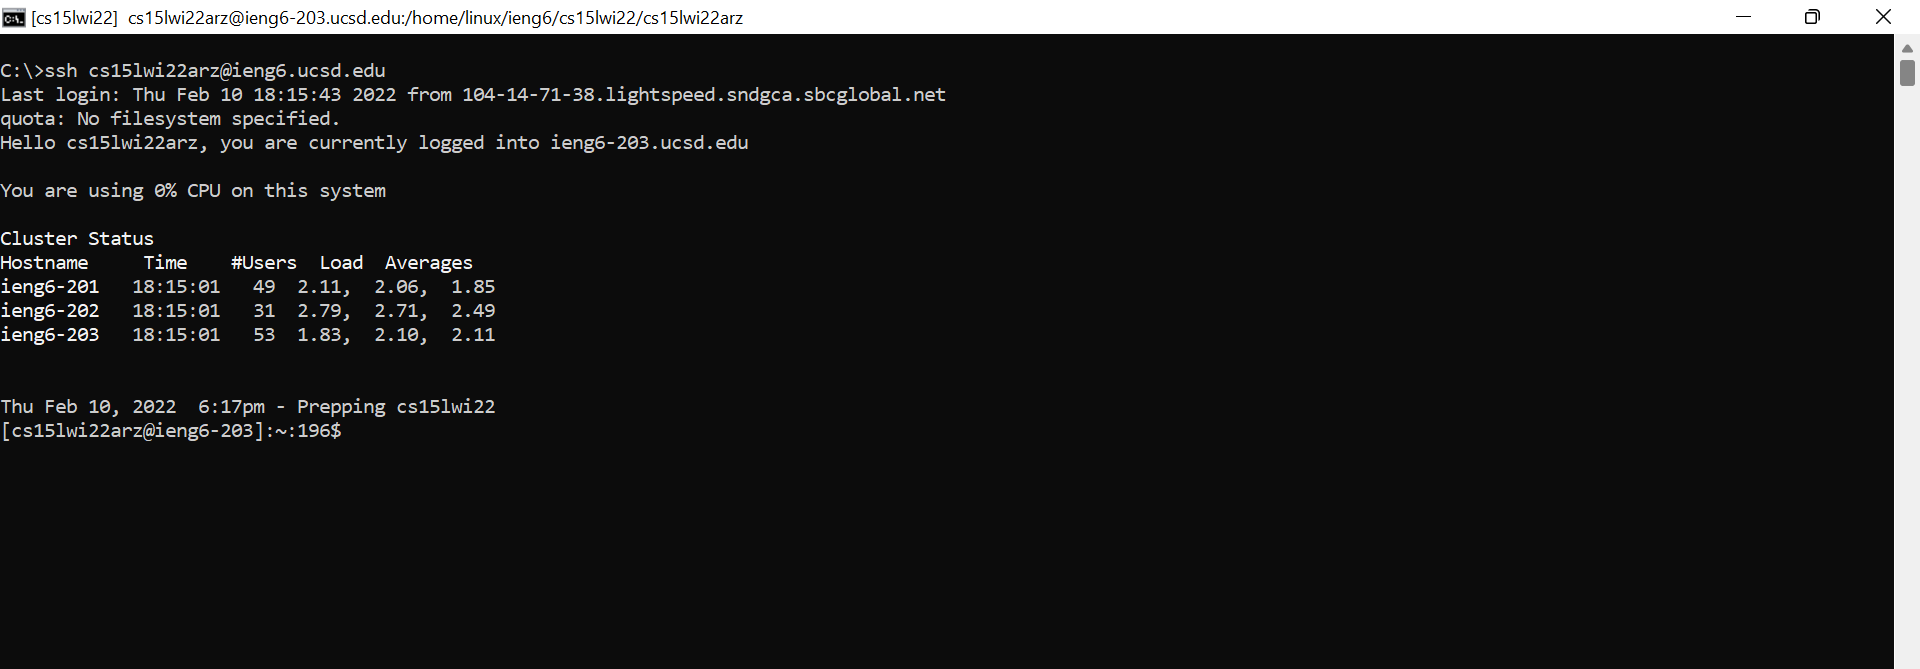
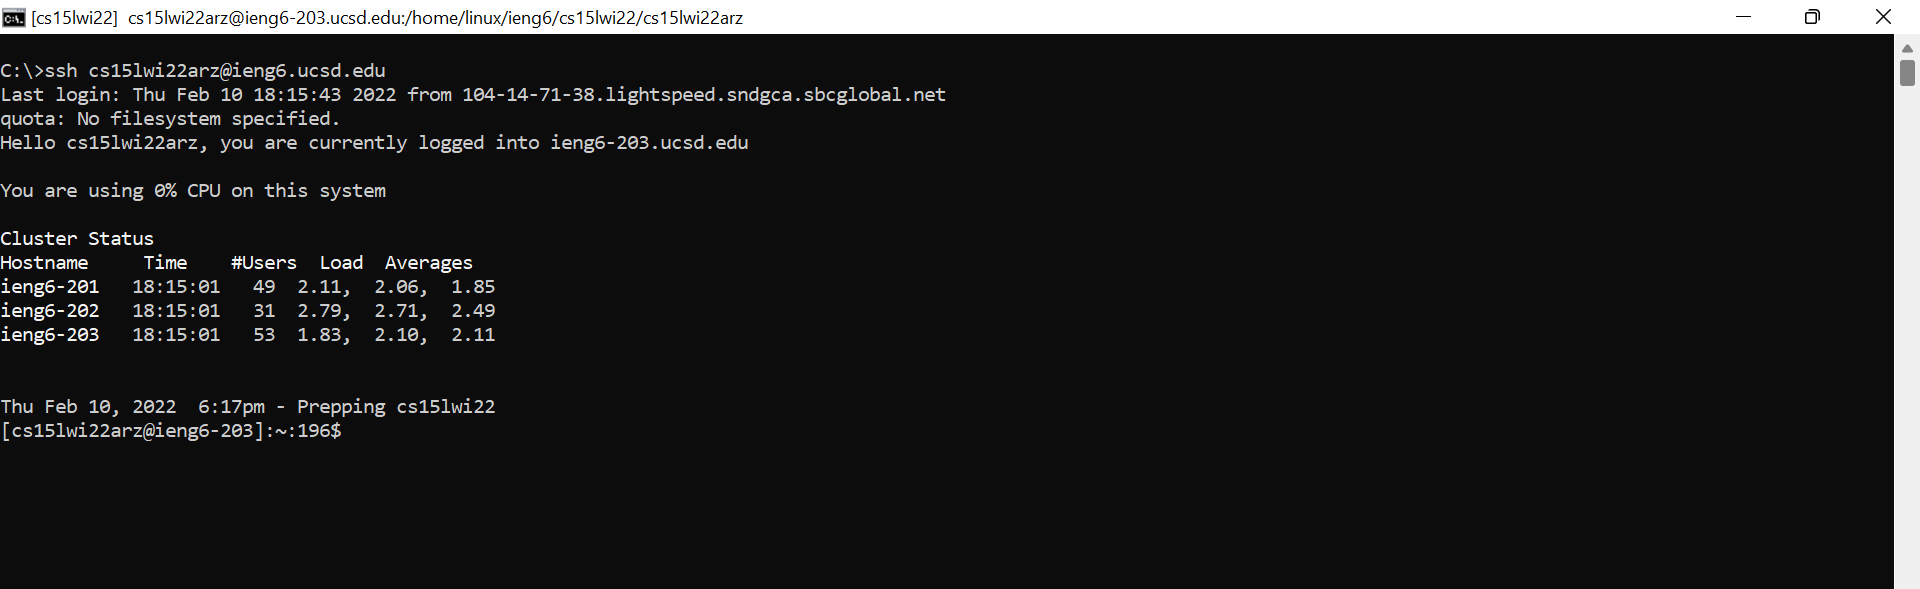
ok

Changed region(s): [[0.0, 0.0917, 0.5, 0.764], [0.0, 0.0, 1.0, 0.0917], [0.9688, 0.1222, 1.0, 0.1528]]

diff --git a/lab-report-3-week-6.md b/lab-report-3-week-6.md
@@ -4,8 +4,8 @@
 So far, everytime we have remotely connected to the UCSD server, we have been having to enter `ssh cs15lwi22zzz@ieng6.ucsd.edu`. Hopefully, you have been utilizing `Ctrl C` and `Ctrl V` to copy-paste the line into your command prompt (unless you really remembered the entire `ssh cs15lwi22zzz@ieng6.ucsd.edu` ... ). 
 
 No worries! We can make this process of logging into our `ieng6` account much faster and simpler. The following is a tutorial on streamlining our `ssh` configuration.
-<br/>
 
+<br/>
 
 > FOR WINDOWS USERS ONLY:
 - This should be done already, as it was required to get to the UCSD server in the first place, but if you have not done so yet, please install a program called OpenSSH!
@@ -13,7 +13,7 @@ No worries! We can make this process of logging into our `ieng6` account much fa
 
 <br/>
 
-### **Navigating to .ssh/configStep 1:**
+### **Navigating to .ssh/config**
 
 The folder `.ssh` should be in the home directory of your computer. A home directory has a path similar to this:
 ```
@@ -37,6 +37,17 @@ The setup on your coding environment will look something like this.
 
 <br/>
 
-### **Step 2:**
-#### Remotely Connecting
+### **Running ssh ieng6**
+
+Now to connected to our remote account on the UCSD server, we can enter `ssh ieng`!
+
+#### **before**
+
+![image](Screenshot2022-02-10181713.png)
+
+#### **after**
+![image](Screenshot2022-02-10181632.png)
+
 <br/>
+
+### **Congratulations! You have successfully created a shortcut to `ssh cs15lwi22zzz@ieng6.ucsd.edu`.** 😊
